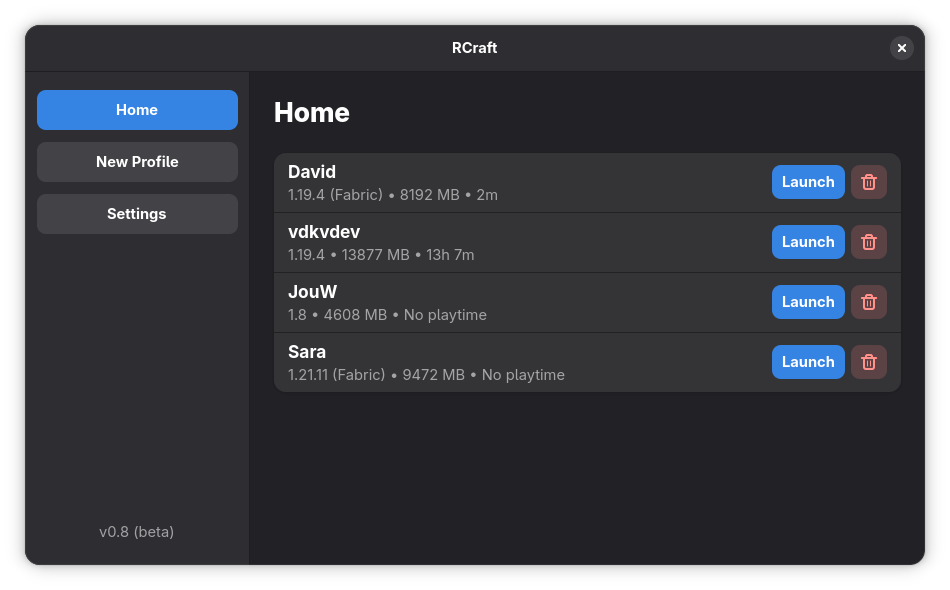
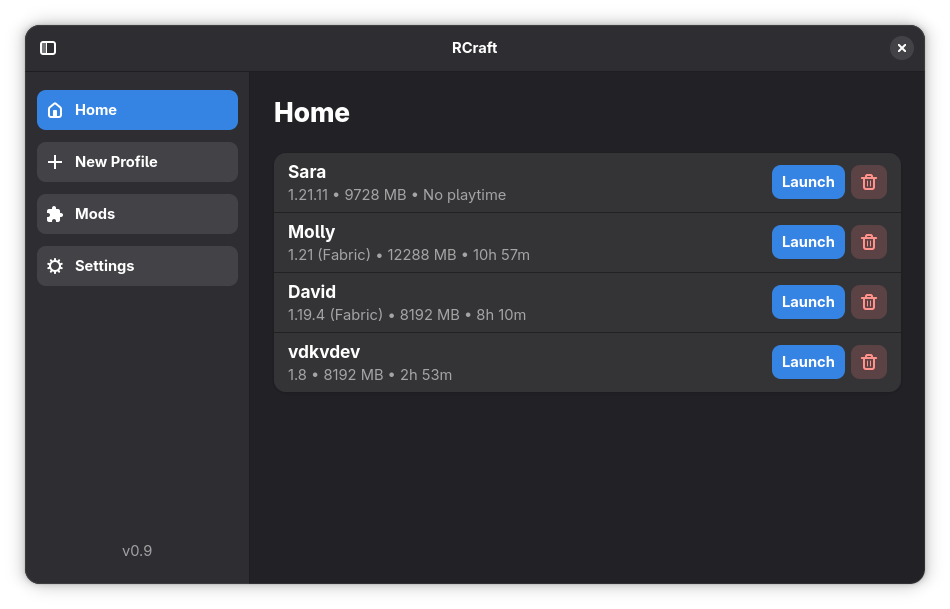
v0.9

diff --git a/src/ui.rs b/src/ui.rs
@@ -1624,6 +1624,10 @@ impl SimpleComponent for AppModel {
                         rt.block_on(async {
                             // Cache dir
                             let cache_dir = std::env::temp_dir().join("rcraft").join("cache").join("icons");
+                            if let Err(e) = std::fs::create_dir_all(&cache_dir) {
+                                println!("Failed to create icon cache dir: {}", e);
+                            }
+
                             // Check PNG first
                             let png_path = cache_dir.join(format!("{}.png", project_id_clone));
                             // Check SVG second
@@ -2416,7 +2420,7 @@ fn create_settings_page(sender: &ComponentSender<AppModel>, nerd_mode_switch: &a
     // Version Row
     let version_row = adw::ActionRow::builder()
         .title("Version")
-        .subtitle("v0.8")
+        .subtitle("v0.9")
         .build();
 
     // Developer Row

diff --git a/README.md b/README.md
@@ -55,6 +55,18 @@ RCraft is distributed as an **AppImage**, a universal package that runs on almos
   <img src="media/ss2.png" alt="RCraft" width="800"/>
 </div>
 
+<div align="center">
+  <img src="media/ss3.png" alt="RCraft" width="800"/>
+</div>
+
+<div align="center">
+<img src="media/ss4.png" alt="RCraft" width="800"/>
+</div>
+
+<div align="center">
+<img src="media/ss5.png" alt="RCraft" width="800"/>
+</div>
+
 ## License
 
 Distributed under the **GPL-3.0 License**. See [LICENSE](LICENSE) for more information.
